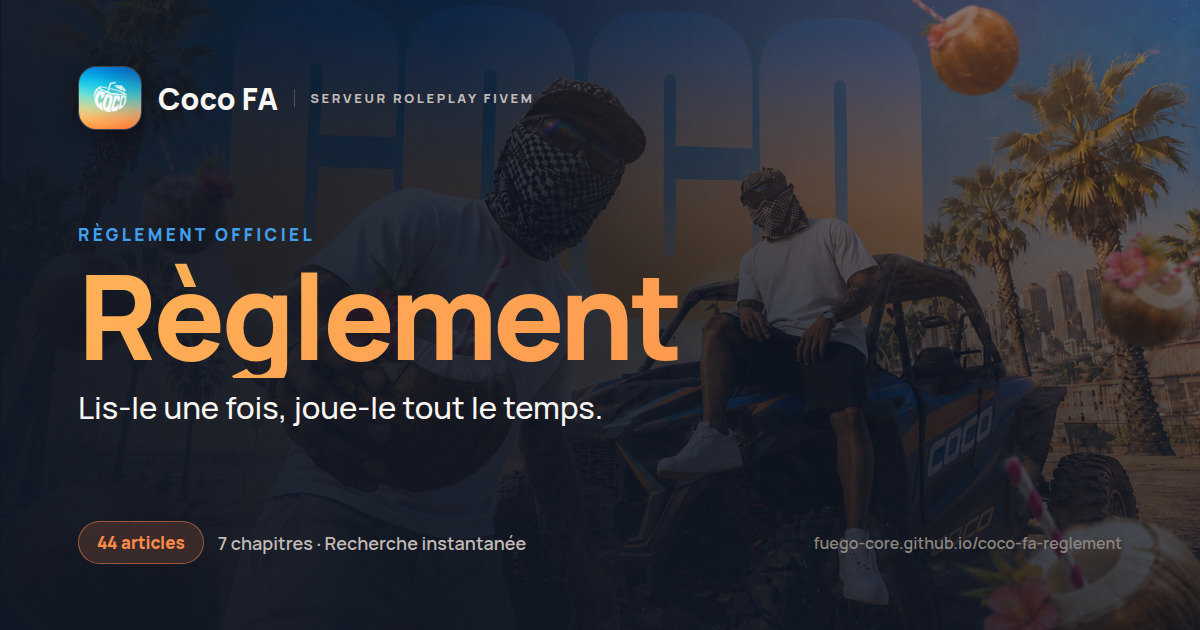
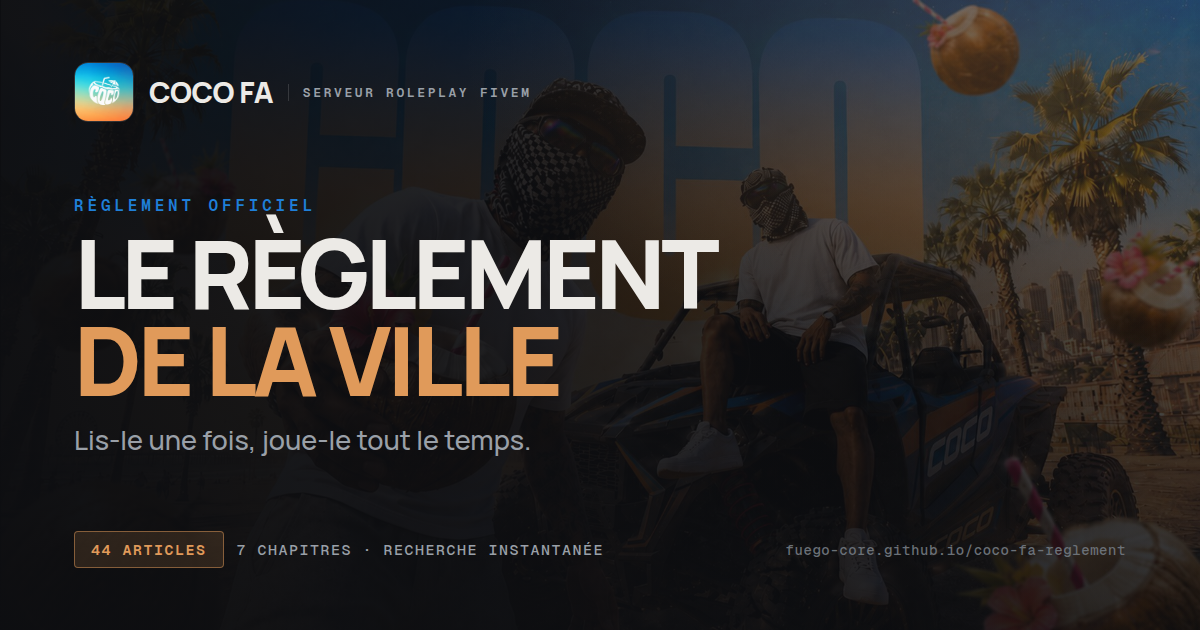
Rend la page autonome et lui redonne son identité de partage
Deux défauts relevés sur la version en place : la page dépendait d'un CDN
externe pour s'afficher, et n'avait plus ni titre ni aperçu de partage.

React servi depuis le dépôt :
- support.js chargeait React et ReactDOM depuis unpkg.com au moment de
  l'exécution. CDN injoignable = page entièrement vide, le contenu étant
  monté par React.
- Les deux fichiers sont désormais dans assets/vendor (148 Ko). Ils sont
  bit à bit identiques à ceux d'unpkg : leurs empreintes SHA-384
  correspondent aux constantes SRI de support.js.
- Aucune modification de support.js : la substitution passe par
  window.__resources, le point d'extension qu'il prévoit déjà.
- Babel standalone reste sur le CDN : il n'est chargé que pour du JSX,
  et la page n'en contient pas.

En-tête restauré :
- title, description, favicon, theme-color.
- Balises Open Graph et Twitter, placées dans le <head> statique : les
  robots d'aperçu n'exécutent pas le JavaScript, des balises injectées à
  l'exécution ne les atteindraient pas.
- Aperçu régénéré aux couleurs v2 (ambre sur neutres froids, Manrope et
  Geist Mono), accordé au titre du site.
- lang="fr" sur <html>.

Repli <noscript> vers reglement.md : sans lui, un échec du JavaScript
laisse une page blanche.

Vérifié après coup : plus aucune requête vers unpkg, 44 règles rendues,
aucune erreur JS, titre et balises présents dans le HTML servi.
Le défilement horizontal de 28 px au bureau est antérieur à ces
[…]

diff --git a/index.html b/index.html
@@ -1,11 +1,52 @@
 <!DOCTYPE html>
-<html>
+<html lang="fr">
 <head>
 <meta charset="utf-8">
 <meta name="viewport" content="width=device-width, initial-scale=1">
+<title>Règlement — Coco FA</title>
+<meta name="description" content="Règlement officiel du serveur RolePlay FiveM Coco FA. 7 chapitres, 44 articles numérotés, recherche instantanée. Lis-le une fois, joue-le tout le temps.">
+<meta name="color-scheme" content="dark">
+<meta name="theme-color" content="#0D0E11">
+
+<!-- Open Graph / Discord — doit rester dans le <head> statique :
+     les robots d'aperçu n'exécutent pas le JavaScript. -->
+<meta property="og:type" content="website">
+<meta property="og:site_name" content="Coco FA">
+<meta property="og:title" content="Règlement officiel — Coco FA">
+<meta property="og:description" content="Lis-le une fois, joue-le tout le temps. 7 chapitres, 44 articles numérotés, recherche instantanée.">
+<meta property="og:image" content="https://fuego-core.github.io/coco-fa-reglement/assets/og-image.png">
+<meta property="og:image:width" content="1200">
+<meta property="og:image:height" content="630">
+<meta property="og:image:alt" content="Règlement officiel du serveur RP Coco FA">
+<meta property="og:url" content="https://fuego-core.github.io/coco-fa-reglement/">
+<meta property="og:locale" content="fr_FR">
+<meta name="twitter:card" content="summary_large_image">
+<meta name="twitter:title" content="Règlement officiel — Coco FA">
+<meta name="twitter:description" content="Lis-le une fois, joue-le tout le temps. 7 chapitres, 44 articles numérotés, recherche instantanée.">
+<meta name="twitter:image" content="https://fuego-core.github.io/coco-fa-reglement/assets/og-image.png">
+
+<link rel="icon" href="assets/logo.png" type="image/png">
+<link rel="apple-touch-icon" href="assets/logo.png">
+
+<!-- React servi depuis le dépôt plutôt que depuis unpkg : si le CDN est
+     injoignable, la page ne s'affiche pas du tout. Fichiers identiques
+     (SRI vérifiés). __resources est le point de substitution de support.js. -->
+<script>
+  window.__resources = {
+    "https://unpkg.com/react@18.3.1/umd/react.production.min.js": "assets/vendor/react-18.3.1.production.min.js",
+    "https://unpkg.com/react-dom@18.3.1/umd/react-dom.production.min.js": "assets/vendor/react-dom-18.3.1.production.min.js"
+  };
+</script>
 <script src="./support.js"></script>
 </head>
 <body>
+<noscript>
+  <div style="max-width:640px;margin:12vh auto;padding:24px 26px;border:1px solid rgba(255,255,255,.14);border-radius:8px;font-family:'Manrope',-apple-system,'Segoe UI',Roboto,sans-serif;color:#ECEAE6;line-height:1.6">
+    <p style="margin:0 0 10px;font-weight:800;font-size:1.1rem">Le JavaScript est désactivé.</p>
+    <p style="margin:0 0 16px;color:#9AA0A8">Cette page a besoin de JavaScript pour s'afficher. Le règlement reste consultable en texte brut&nbsp;:</p>
+    <p style="margin:0"><a href="reglement.md" style="color:#E09A5A;font-weight:700">→ Lire le règlement complet (reglement.md)</a></p>
+  </div>
+</noscript>
 <x-dc>
 <helmet>
 <link rel="preconnect" href="https://fonts.googleapis.com">
